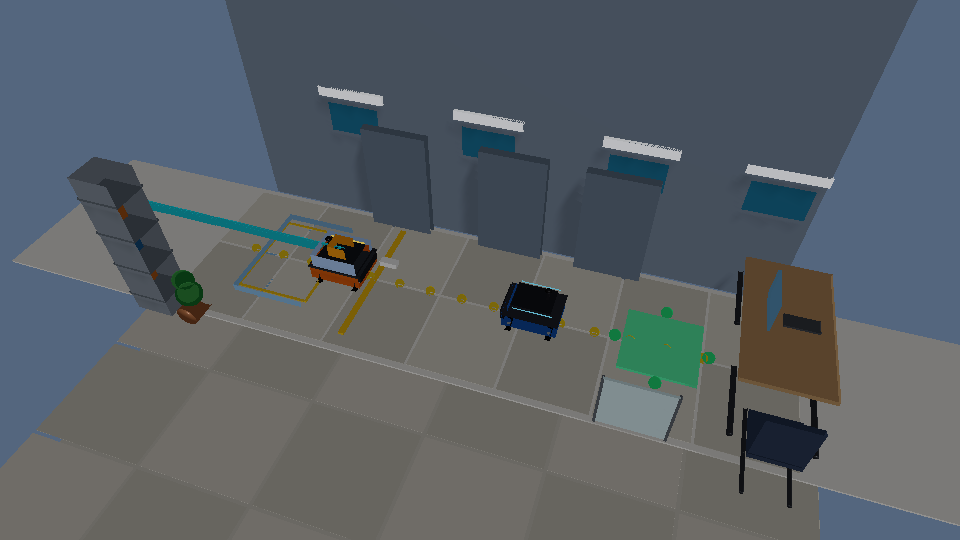
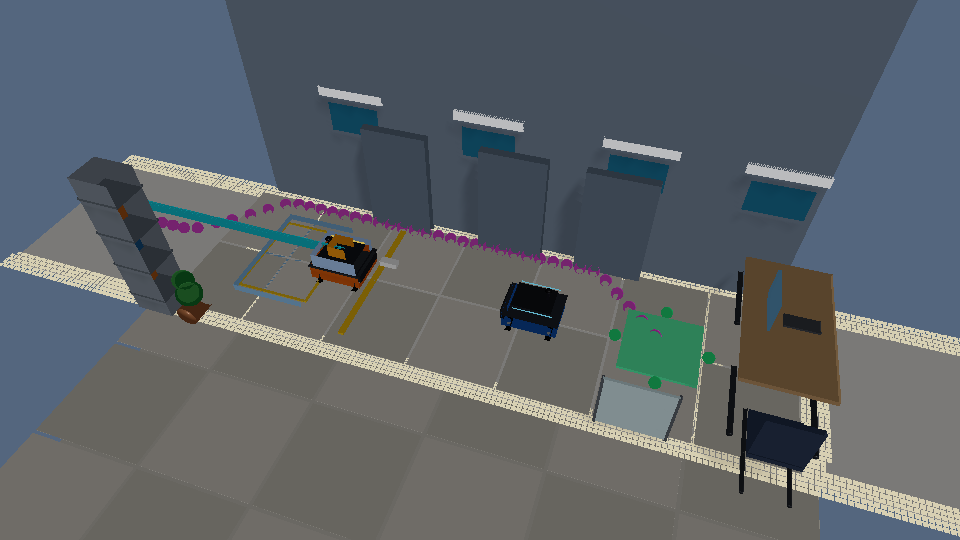
fix: plan the navigation showcase route instead of drawing it (#327)
The office AGV showcase advertised "a planned route to a docking goal", but the
route it drew was a line of spheres stepped from x=2.0 to x=7.2 at z=0. That is
not the planner's output, and it is not a route the robot could take: the pickup
dock sits at x=2.5 and the delivery desk at x=7.45, both in the middle of a
2.3 m corridor, so the drawn line passes straight through two obstacles.

The overlay now builds an occupancy grid from the corridor's own collision boxes
— the same four the scene spawns — inflates it by the AGV's half width, and
draws what `plan_path` returns. The plan is 6.63 m over 120 waypoints and swings
0.82 m off the centre line to get around the dock and the desk, where a straight
line would be 5.95 m. The inflation it was charged for is drawn underneath with
`grid_mesh`, clipped to the corridor because inflation beyond the walls
describes space the robot cannot reach.

Physics is untouched: the rollout still reports digest 0x049e37b02efe1c7b with
an exact replay. Only the render overlay changed, and the README caption now
states what the picture shows.

diff --git a/examples/90_showcase_captures/nav.rs b/examples/90_showcase_captures/nav.rs
@@ -10,8 +10,12 @@ use super::office;
 use anyhow::{Context, Result};
 use rne_ai::{BehaviorScenario, OfficeAgvDeskPlaceScenario};
 use rne_math::Vec3;
+use rne_nav::{
+    plan_path, Costmap, CostmapConfig, GlobalPlannerConfig, GridCoord, OccupancyGrid, Path2d,
+    Pose2d, COST_LETHAL,
+};
 use rne_physics::hash_physics_state;
-use rne_render::RenderScene;
+use rne_render::{grid_mesh, GridMeshSpec, RenderScene};
 use rne_render_wgpu::CameraOrbit;
 use serde_json::to_vec_pretty;
 use std::fs;
@@ -97,8 +101,22 @@ struct Rollout {
     frames: Vec<CaptureFrame>,
 }
 
+/// The corridor map, its costs, and the route planned across them.
+struct CorridorMap {
+    grid: OccupancyGrid,
+    costmap: Costmap,
+    path: Path2d,
+}
+
 fn rollout(capture: bool, expected_steps: Option<u64>) -> Result<Rollout> {
     let mut scenario = OfficeAgvDeskPlaceScenario::success(1).context("load office desk-place")?;
+    let grid = corridor_grid()?;
+    let (costmap, path) = plan_corridor_route(&grid)?;
+    let map = CorridorMap {
+        grid,
+        costmap,
+        path,
+    };
     let initial_digest = hash_physics_state(scenario.simulation().world());
     let mut frames = Vec::new();
     let mut trajectory: Vec<(f64, f64)> = Vec::new();
@@ -123,7 +141,7 @@ fn rollout(capture: bool, expected_steps: Option<u64>) -> Result<Rollout> {
             && observation.step >= sample_steps[sample_index]
         {
             let mut scene = office::render_scene(&scenario, observation);
-            append_navigation_overlays(&mut scene, &trajectory, observation.base_yaw_rad);
+            append_navigation_overlays(&mut scene, &map, &trajectory, observation.base_yaw_rad);
             frames.push(CaptureFrame {
                 step: observation.step,
                 phase: office::phase_name(observation),
@@ -154,23 +172,127 @@ fn rollout(capture: bool, expected_steps: Option<u64>) -> Result<Rollout> {
     })
 }
 
-/// Adds a planned route, the driven trajectory, a heading arrow, and the
-/// docking goal to the office scene.
+/// Corridor obstacles, taken from `office_agv_delivery.rne.scene.toml`.
+///
+/// Each entry is `(centre_x, centre_z, size_x, size_z)` in meters, matching the
+/// collision boxes the scene actually spawns, so the map describes the office
+/// the robot is driving through rather than an artist's impression of it.
+const CORRIDOR_OBSTACLES: [(f64, f64, f64, f64); 4] = [
+    (4.5, 1.15, 10.0, 0.1),  // wall_north
+    (4.5, -1.15, 10.0, 0.1), // wall_south
+    (2.5, 0.0, 0.8, 1.2),    // pickup_dock
+    (7.45, 0.0, 0.7, 1.4),   // delivery_desk
+];
+/// Occupancy resolution for the corridor map, in meters.
+const MAP_RESOLUTION_M: f64 = 0.05;
+/// Costmap inflation, about the AGV's half width.
+const MAP_INFLATION_M: f64 = 0.28;
+
+/// Builds an occupancy grid of the corridor from the scene's own collision boxes.
+fn corridor_grid() -> Result<OccupancyGrid> {
+    let origin = Pose2d::new(-0.6, -1.4, 0.0);
+    let width = ((10.8 / MAP_RESOLUTION_M).ceil()) as usize;
+    let height = ((2.8 / MAP_RESOLUTION_M).ceil()) as usize;
+    let mut grid = OccupancyGrid::new(width, height, MAP_RESOLUTION_M, origin)
+        .context("corridor occupancy grid")?;
+    for row in 0..height as isize {
+        for column in 0..width as isize {
+            let coord = GridCoord { x: column, y: row };
+            let centre = grid.grid_to_world(coord);
+            let blocked = CORRIDOR_OBSTACLES.iter().any(|(cx, cz, sx, sz)| {
+                (centre.x - cx).abs() <= sx / 2.0 && (centre.y - cz).abs() <= sz / 2.0
+            });
+            for _ in 0..8 {
+                if blocked {
+                    grid.mark_occupied(coord);
+                } else {
+                    grid.mark_free(coord);
+                }
+            }
+        }
+    }
+    Ok(grid)
+}
+
+/// Plans the dock-to-desk route the AGV actually has to drive.
+///
+/// The dock and the desk stand in the middle of a 2.3 m corridor, so a straight
+/// line between them passes through both. The planner routes around them.
+fn plan_corridor_route(grid: &OccupancyGrid) -> Result<(Costmap, Path2d)> {
+    let costmap = Costmap::from_occupancy(
+        grid,
+        &CostmapConfig {
+            inflation_radius_m: MAP_INFLATION_M,
+            ..CostmapConfig::default()
+        },
+    )
+    .context("corridor costmap")?;
+    let path = plan_path(
+        &costmap,
+        Vec3::new(0.6, 0.0, 0.0),
+        Vec3::new(6.55, 0.0, 0.0),
+        &GlobalPlannerConfig::default(),
+    )
+    .context("corridor route")?;
+    Ok((costmap, path))
+}
+
+/// Adds the map, the planned route, the driven trajectory, a heading arrow, and
+/// the docking goal to the office scene.
 fn append_navigation_overlays(
     scene: &mut RenderScene,
+    map: &CorridorMap,
     trajectory: &[(f64, f64)],
     base_yaw_rad: f64,
 ) {
-    const ROUTE: [f32; 4] = [0.98, 0.78, 0.10, 1.0];
+    const ROUTE: [f32; 4] = [0.92, 0.25, 0.85, 1.0];
     const TRAIL: [f32; 4] = [0.10, 0.85, 0.95, 1.0];
     const GOAL: [f32; 4] = [0.15, 0.95, 0.45, 1.0];
     const ARROW: [f32; 4] = [1.0, 1.0, 1.0, 1.0];
+    const INFLATION: [f32; 4] = [0.98, 0.72, 0.22, 0.55];
 
-    // Planned route: a line of markers along the aisle from the dock to the desk.
-    let mut x = 2.0;
-    while x <= 7.2 {
-        push_sphere(scene, Vec3::new(x, 0.06, 0.0), 0.05, ROUTE);
-        x += 0.35;
+    // The costs the planner charged for, drawn where it charged them.
+    let spec = GridMeshSpec {
+        columns: map.grid.width(),
+        rows: map.grid.height(),
+        cell_size_m: map.grid.resolution_m(),
+        origin_m: Vec3::new(map.grid.origin().x_m, 0.0, map.grid.origin().y_m),
+        height_m: 0.012,
+        fill: 0.9,
+    };
+    scene.items.push(RenderScene::item_from_dynamic_mesh(
+        grid_mesh(&spec, |column, row| {
+            let coord = GridCoord {
+                x: column as isize,
+                y: row as isize,
+            };
+            // Only inside the corridor: inflation drawn beyond the walls
+            // describes space the robot cannot reach and reads as spill.
+            let centre = map.grid.grid_to_world(coord);
+            if centre.y.abs() > 1.1 {
+                return false;
+            }
+            let occupied = map
+                .grid
+                .probability(coord)
+                .is_some_and(|probability| probability >= 0.6);
+            !occupied
+                && map
+                    .costmap
+                    .cost_at(coord)
+                    .is_some_and(|cost| cost > 0 && cost < COST_LETHAL)
+        }),
+        INFLATION,
+    ));
+
+    // Planned route: what `plan_path` returned, not a line drawn along the aisle.
+    for waypoint in map.path.waypoints().iter().step_by(3) {
+        push_sphere(
+            scene,
+            Vec3::new(waypoint.x_m, 0.07, waypoint.y_m),
+            0.065,
+            ROUTE,
+        );
     }
     // Docking goal ring at the desk.
     for (dx, dz) in [(-0.45, 0.0), (0.45, 0.0), (0.0, -0.45), (0.0, 0.45)] {

diff --git a/README.md b/README.md
@@ -111,7 +111,13 @@ in-repo reference implementations do not count as independent evidence.
 
 ## Navigation, SLAM, and multi-robot
 
-![Mobile AGV driving a planned route to a docking goal, driven trajectory trailing behind](docs/media/showcase-nav.gif)
+![Office AGV following a planned route around the dock and desk, with the costmap inflation it was charged for drawn on the floor](docs/media/showcase-nav.gif)
+
+*The magenta route is what `plan_path` returned over the corridor's own
+collision geometry, and the amber band is the costmap inflation that pushed it
+off the centre line: the dock and the desk stand in a 2.3 m corridor, so the
+6.63 m plan swings 0.82 m wide where a straight line would be 5.95 m and
+impassable.*
 
 `rne_nav`/`rne_slam`: deterministic, ROS-free costmaps, a transform tree,
 A*/DWA/pure-pursuit, multi-robot avoidance, an EKF, 3D ICP, and online 2D
